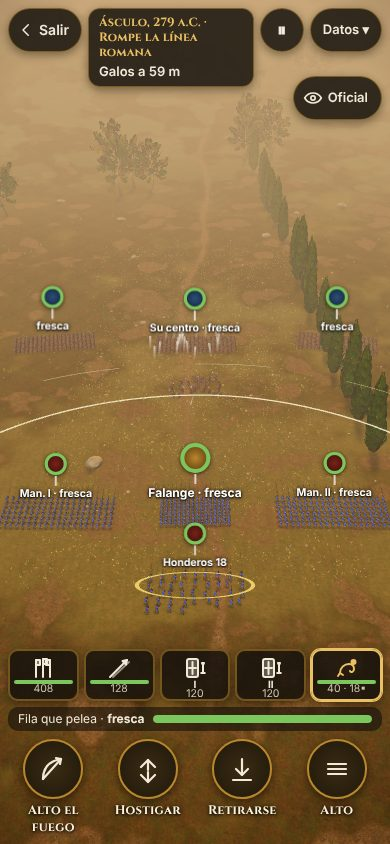
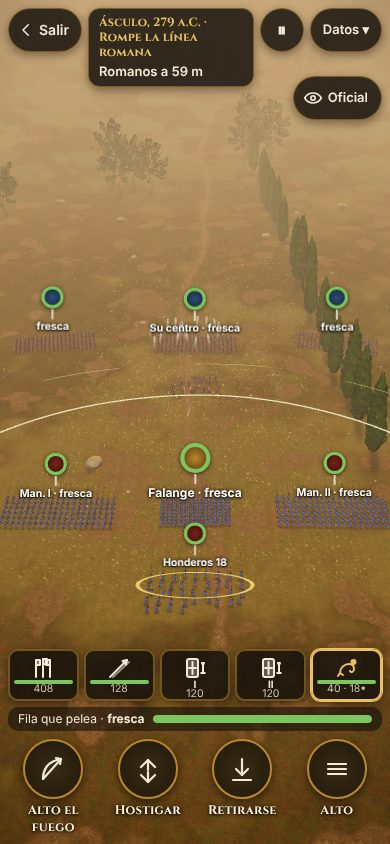
ES4: rótulos de Ásculo (centro romano «Man. I», rival «Romanos/Falange»), capturas rehechas y parte ES2–ES4
Claude-Session: https://claude.ai/code/session_01QiKC3AueTTnr5wRS2biPNP

diff --git a/gobierno/maquetas/bloque/escena.js b/gobierno/maquetas/bloque/escena.js
@@ -301,7 +301,7 @@ function avisa(tipo, d) {
 function nueva(n) {
   nivel = n; if (FORM.combate) { LU = null; return nuevaFormacion(); }
   C = crearCombate(Object.assign({ semilla, nivel, motor: BL, avisa, lucha: LUCHA }, LP7 ? { fuerzas: LP7.fuerzas, lejos: LP7.lejos, fin: FIN_LUCHA } : {}, FORM.escenario ? { escenario: FORM.escenario, fin: FIN_LUCHA } : {}, FORM.opcCombate ? FORM.opcCombate(BL) : {}));
-  if (LP7 && LP7.rival) C.S.rival = LP7.rival; TR = crearTropas({ S: C.S, muroDelante: FORM.muroDelante }); FS = crearFisicaBloque({ S: C.S, TR, H, activa: Q.get('fisica') !== '0', semilla, guardia: FORM.guardia }); oficial = eligeOficial(TR.figs); hud.pon(C);
+  if (LP7 && LP7.rival) C.S.rival = LP7.rival; else if (ASC) C.S.rival = ASC.bando === 'pirro' ? { los: 'los romanos', Los: 'Romanos' } : { los: 'la falange', Los: 'Falange' };   /* ES4: el nombre del rival en Ásculo */ TR = crearTropas({ S: C.S, muroDelante: FORM.muroDelante }); FS = crearFisicaBloque({ S: C.S, TR, H, activa: Q.get('fisica') !== '0', semilla, guardia: FORM.guardia }); oficial = eligeOficial(TR.figs); hud.pon(C);
   LU = LUCHA === 'motor' ? crearLucha({ C, TR, semilla }) : null;
   FORM.monta({ THREE, escena, H, C, S: C.S, TR, Son, BL, hud, $, dedos, FS, camara, proyecta, suelo, lienzo, semilla, texto: t => { $('objetivo').textContent = t; } }); dedos.oculta(); vuelos.length = 0; CAM.listo = false; camaraSigue(1e-4);
   OF = crearOficial({ S: C.S, alAviso: alOficial }); rivF = null; sacude = 0;

diff --git a/gobierno/maquetas/bloque/tira-mando.js b/gobierno/maquetas/bloque/tira-mando.js
@@ -58,7 +58,7 @@ export function crearTira({ mando: M, hud, $, dedos }) {
   let puestas = '';
   function ordenes() {
     const l = M.ordenesDe(M.elegido), k = l.join(); if (k === puestas) return; puestas = k;
-    hud.ordenes(l, { retirada: false, tuyo: 'Falange' });
+    hud.ordenes(l, { retirada: false, tuyo: M.cuerpos[0].corto });
   }
   /* tocar el estandarte de un cuerpo lo elige */
   const ESTS = { 0: 'falange', 1: 'man1', 2: 'man2' };

diff --git a/gobierno/partes/2026-11-24-ES2.md b/gobierno/partes/2026-11-24-ES2.md
@@ -1,0 +1,31 @@
+# Parte · ES2–ES4 Escaramuza combinada (falange + manípulos + tiradores, Ásculo) · 24/11/2026
+**Resultado**: hecho, en carril aparte (rama `es-combinada`, sin unir al juego). Commits: ES3a `daf8234`, ES2 `c0d9f2c`, ES3b `d626118`, ES4 `493ccab` y el cierre.
+**Qué cambia para el jugador**: en la maqueta del bloque, `?formacion=combinada` te da varios cuerpos a la vez. Una tira de fichas con
+**figuras por arma** (cambio del usuario: estandartes, sarisa, scutum con «I/II/III», honda, arco, jabalina) elige a quién mandas. Dibujas el frente de ese cuerpo o el de todos, y ⏸ para el tiempo y deja dar órdenes. Detrás van tus tiradores
+(honderos, arqueros o vélites): arco de alcance, tocar un rival lo marca como blanco, tiro directo o en parábola elegido solo (cinta blanca/ámbar),
+salvas con física y estela, munición, fuego amigo, Tirar/Alto el fuego · Hostigar · Retirarse (por el hueco) · Alto; una carga los rompe.
+`&escenario=asculo`: pantalla «Ser Pirro / Ser Roma». Pirro = falange + 2 manípulos + honderos contra la legión con vélites. Roma = 3 manípulos con
+**testudo del motor** (añadido del usuario) + vélites contra la falange con honderos.
+**Archivos**: nuevos `js/mando-varios.js`, `js/tiro.js`, `bloque/{mando,tira-mando,tiradores}.js`, `bloque/formaciones/combinada.js`,
+`bloque/captura-es{2,3,4}.mjs`, `test/es2-mando`, `es3-tiro`, `es3-combinada`, `es4-asculo` (.test.mjs). Tocados: `js/bloque-ia.js` (ordenDe/frenteDe,
+`apoyo`, `TIPOS.falange`), `js/fisica-batalla.js` (`PROYECTIL.piedra`), `bloque/{escena,hud,fisica,tropas}.js`. Sin `?formacion=combinada`, todo igual (probado).
+**Jueces**: `juez-area batallas --rapido` APTO 13/13 · es2 7/7 · es3-tiro 20/20 · es3-combinada 11/11 · es4 5/5 · bloque-ia 28 · fisica 44 · capturas ES4 APTO, 0 errores.
+Llamadas de dibujo: 23–29 (vara 30). Capturas vistas: `capturas-tarea/ES2-*`, `ES3-*`, `ES4-{pirro-vertical,pirro-horizontal,roma-vertical,entrada-vertical}.jpg`.
+**Cuentas**: presupuesto 4,4 M (corte 5) · gastado 4,78 M (+9 %) · sonnet 3,91 · opus 0,87. ES3b se fue a 1,9 M (presupuesto 0,8): mucho ir y venir con
+el navegador. La próxima vez: capturas por guion desde el principio y tope de pasos más bajo. Sin revisor, para no pasar el corte.
+**Queda pendiente** (para la próxima tanda de ES, ID propuesto ES5):
+- Reglas propias de la falange en la combinada: solo hay frente fuerte y giro lento (`TIPOS.falange`); falta el flanco débil.
+- Los manípulos itálicos de Pirro se pintan como falangitas (`ponBandos` da un solo modelo por bando); hondero/arquero usan el modelo del hastatus (pase → Arte).
+- Doble toque en la ficha (cámara al cuerpo) y pellizco al oficial por cuerpo; la estela es recta, no sigue la curva; la cohesión que baja al pasar por un manípulo.
+- Cotejar las citas (Polibio 18.28, 18.30, 6.21, 15.9; Livio 26.4, 30.33; Plutarco *Pirro* 15; Vegecio 2.23) antes de unir al juego.
+**Pases**: → vigía: dar dueño Batallas en `areas.json` a `js/mando-varios.js`, `js/tiro.js` y los 4 tests nuevos. → común (sesión de subida, al unir):
+CONTRATO ESCARAMUZAS: en `js/ui.js`, menú de Escaramuzas, entrada «Ásculo, 279 a.C.» que abre en capa (como «Bajar a pie») la URL
+`gobierno/maquetas/bloque/index.html?formacion=combinada&escenario=asculo` (sin `bando` sale la elección Pirro/Roma; con `&bando=pirro|roma` va directa;
+opcionales `&nivel=facil|normal|dificil`, `&semilla=N`, `&tiradores=honderos|arqueros|velites`). Hoy **no devuelve nada** al salir (no hay postMessage):
+para dar resultado haría falta en `escena.js` `parent.postMessage({aqvila:'escaramuza', ganador: S.ganador, ...})` (lo hace Batallas cuando se pida).
+`sw.js`: añadir a la caché `js/mando-varios.js`, `js/tiro.js`, `gobierno/maquetas/bloque/{mando,tira-mando,tiradores}.js`, `bloque/formaciones/combinada.js`.
+Fusiones: `origin/fu3-falange` ya está dentro; `fu4-rivales` y `fu5-muro` aún no existen en el remoto.
+**Historia**: APTO CON NOTAS. Época bien (manípulos y vélites, sin cohortes; falangitas con sarisa). Licencia de juego: alcances comprimidos, munición,
+cadencias, fuego amigo, 20 proyectiles dibujados por salva, itálicos con aspecto de falangita. Citas aún de memoria: se cotejan antes de unir.
+**Ideas**: Idea: que al salir la combinada devuelva el resultado y cuente en la campaña como victoria de escaramuza.
+**Decide el usuario**: **Unir a la 1.0**: (A) después de la 1.0 [recomendado]; (B) antes, sacando otra tarea de Batallas. Por qué: faltan el flanco débil de la falange y el arte de itálicos y tiradores.
